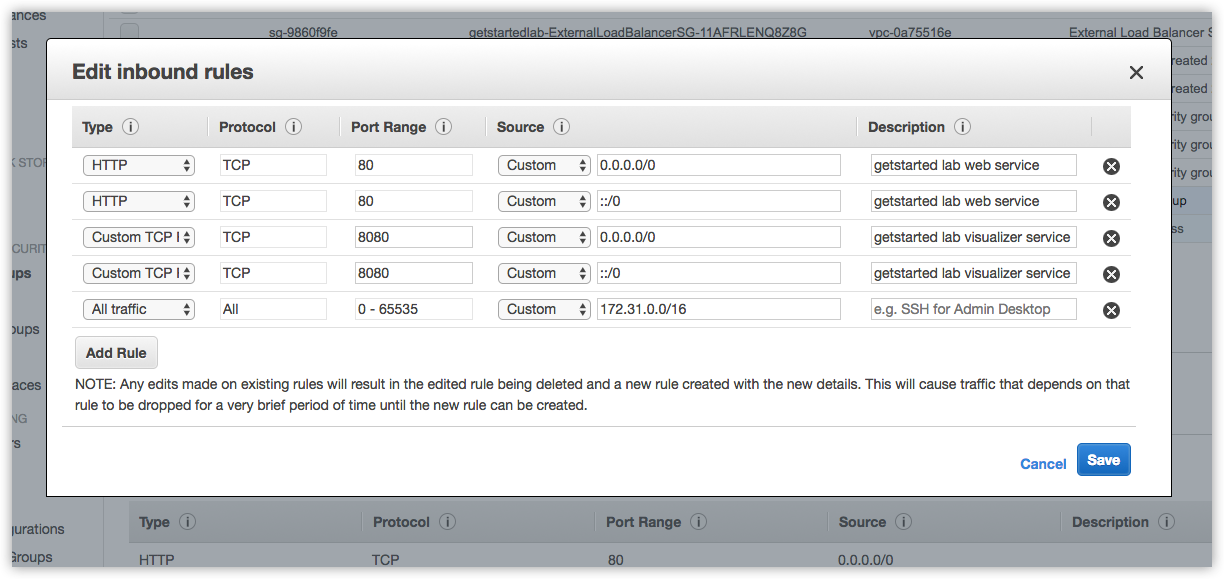
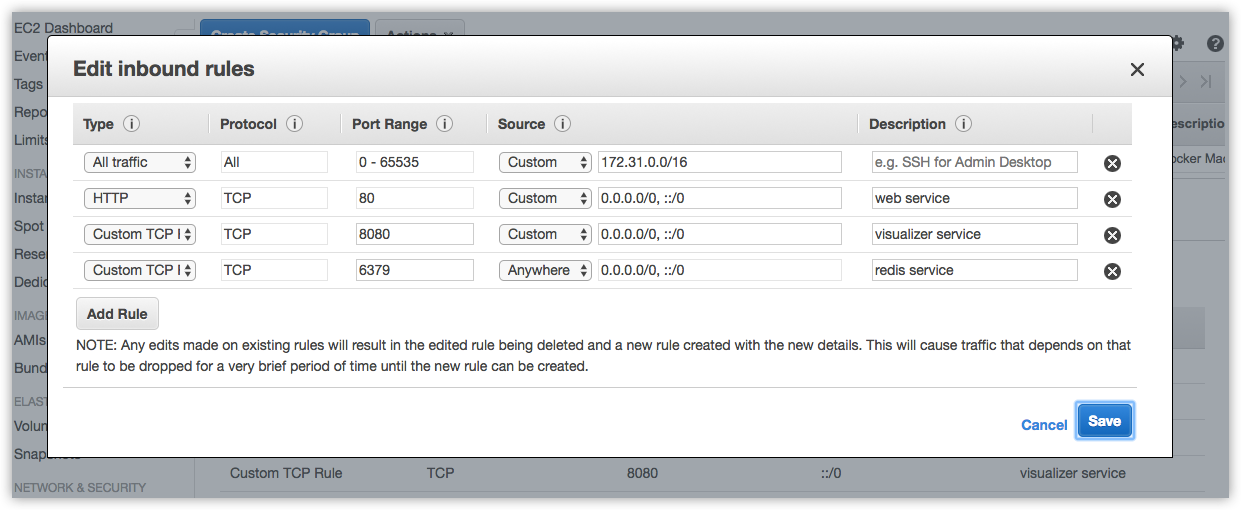
finalized cloud deploy procedure, added info re: unset docker-machine variables

Changed region(s): [[0.0, 0.0, 0.9935, 1.0]]

diff --git a/get-started/part6.md b/get-started/part6.md
@@ -114,7 +114,7 @@ Creating service getstartedlab_visualizer
 Creating service getstartedlab_redis
 ```
 
-Your app is running on your cloud provider.
+Your app is now running on your cloud provider.
 
 You can use the swarm command line, as you've done already, to browse and manage
 the swarm. Here are some examples that should look familiar by now:
@@ -165,6 +165,8 @@ the worker nodes
 * allow inbound traffic to the `web` service on the worker nodes so that
 Hello World and Visualizer are accessible from a web browser.
 
+* allow inbound SSH traffic on the server that is running the `manager` (this may be already set on your cloud provider)
+
 {: id="table-of-ports"}
 
 These are the ports you need to expose for each service:
@@ -178,6 +180,13 @@ These are the ports you need to expose for each service:
 Methods for doing this will vary depending on your cloud provider.
 
 We'll use Amazon Web Services (AWS) as an example.
+
+> **Note**: To get the `redis` service working, you need to `ssh` into
+the cloud server where the `manager` is running, and make a `data/`
+directory in `/home/docker/` before you run `docker stack deploy`.
+Another option is to change the data path in the `docker-stack.yml` to
+a pre-existing path on the `manager` server. The example below does not
+include this step, so the `redis` service is not up in the example output.
 
 #### Example: AWS
 
@@ -194,14 +203,14 @@ to view the nodes.
 3.  Select the "Node" security group for the swarm. The group name
 will be something like this: `getstartedlab-NodeVpcSG-9HV9SMHDZT8C`.
 
-4.  Add Inbound rules for the `web` and `visualizer` services, setting the Type,
-Protocol and Port for each as shown in the [table above](#table-of-ports), and
-click **Save** to apply the rules.
+4.  Add Inbound rules for the `web`, `visualizer`, and `redis`
+services, setting the Type, Protocol and Port for each as shown in the
+[table above](#table-of-ports), and click **Save** to apply the rules.
 
     ![open web service port](images/cloud-aws-web-port-open.png)
 
-    > **Tip**: When you save the new rules, HTTP ports will be auto-created
-      for both IPv4 and IPv6 style addresses.
+    > **Tip**: When you save the new rules, HTTP and TCP
+    ports will be auto-created for both IPv4 and IPv6 style addresses.
 
     ![security groups rules](images/cloud-aws-web-and-visualizer-ports.png)
 

diff --git a/get-started/part4.md b/get-started/part4.md
@@ -431,6 +431,8 @@ take advantage of the new resources.
 
 ## Cleanup
 
+### Stacks and swarms
+
 You can tear down the stack with `docker stack rm`. For example:
 
 ```
@@ -444,6 +446,20 @@ docker stack rm getstartedlab
 > and `docker-machine ssh myvm1 "docker swarm leave --force"` on the
 > manager, but _you'll need this swarm for part 5, so please keep it
 > around for now_.
+
+### Unsetting docker-machine shell variable settings
+
+You can unset the `docker-machine` environment variables in your current shell
+with the following command:
+
+```
+eval $(docker-machine env -u)
+```
+
+This disconnects the shell from `docker-machine` created virtual machines,
+and allows you to continue working in the same shell, now using native `docker`
+commands (for example, on Docker for Mac or Docker for Windows). To learn more,
+see the [Machine topic on unsetting environment variables](/machine/get-started/#unset-environment-variables-in-the-current-shell).
 
 [On to Part 5 >>](part5.md){: class="button outline-btn"}
 
